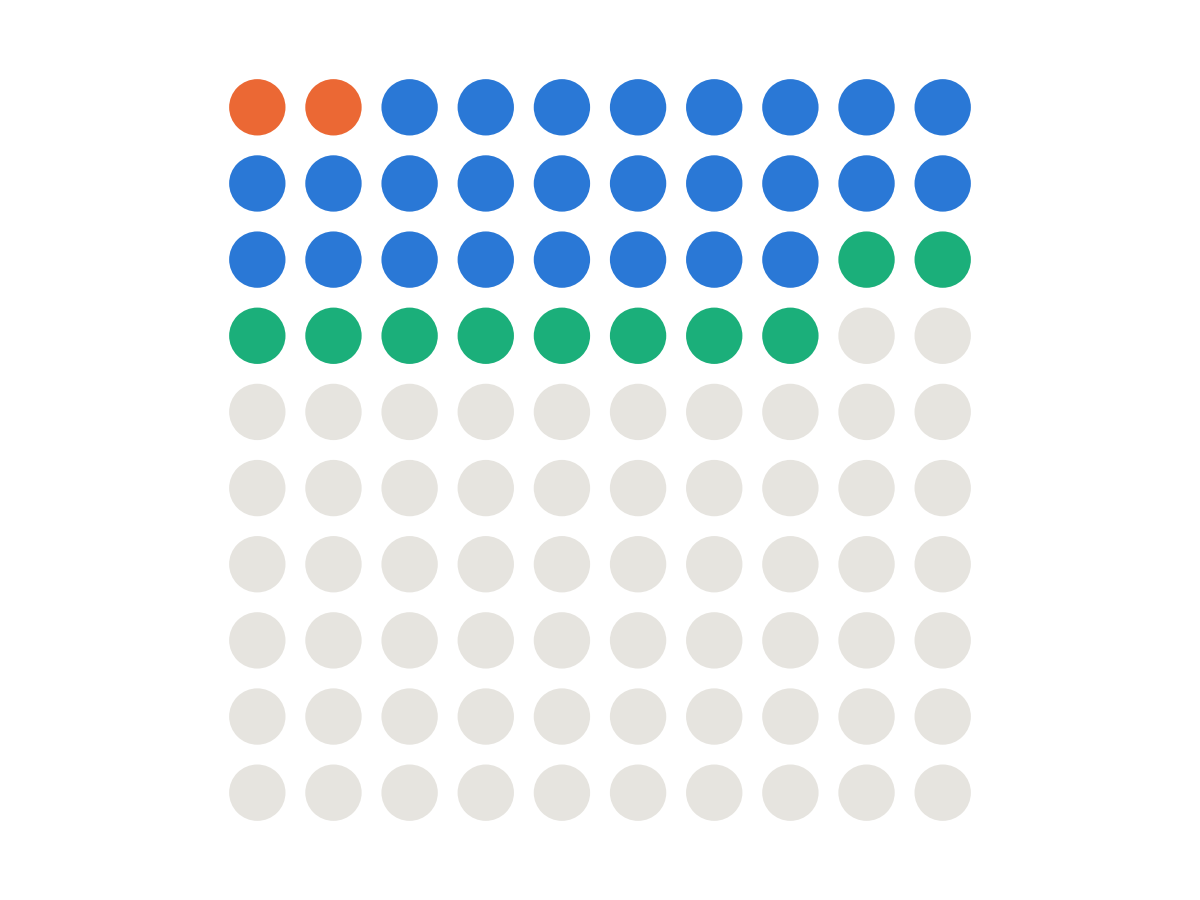
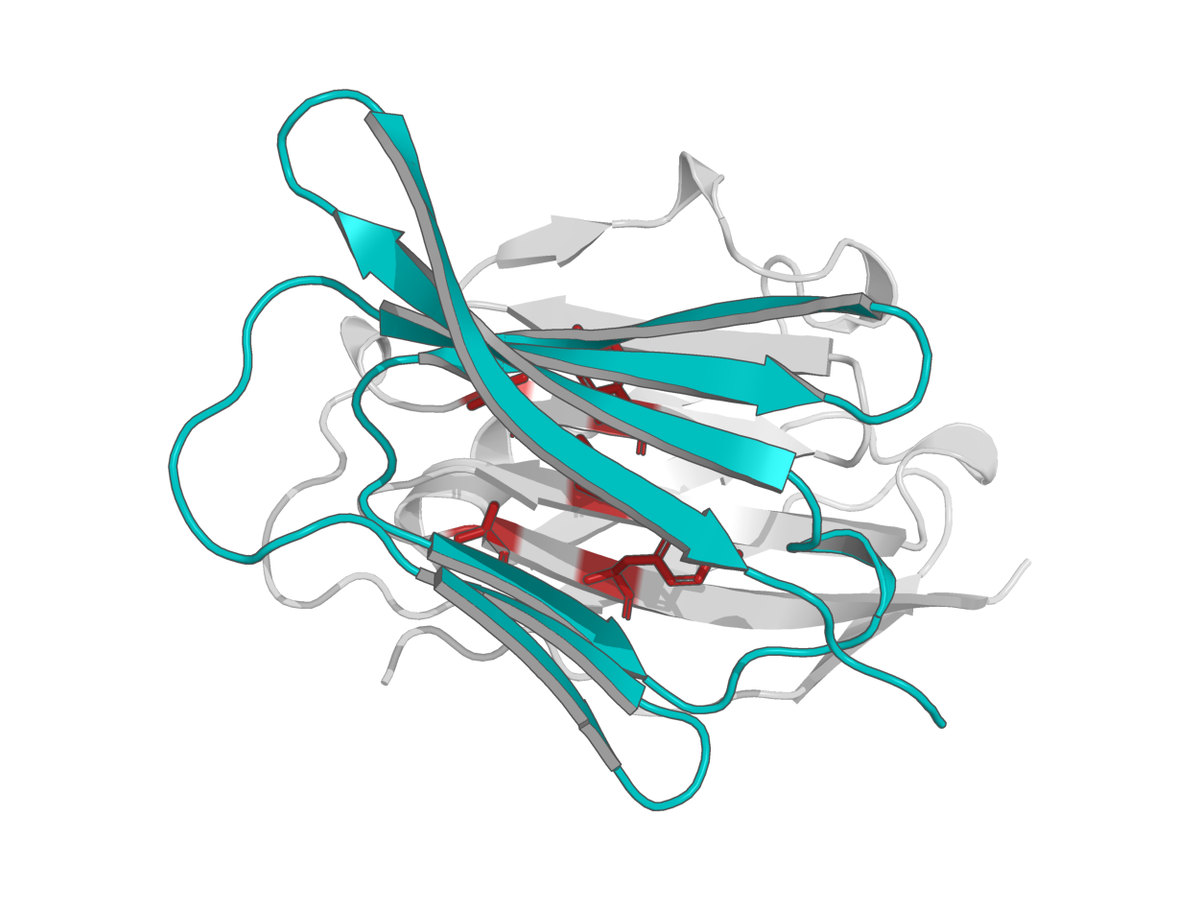
Update TrustBinder software thumbnail to structure render

diff --git a/index.html b/index.html
@@ -472,7 +472,7 @@
 
     <div class="pub">
       <div class="pub-figure">
-        <img src="papers/figures/sw_trustbinder.png" alt="100 de novo PD-L1 designs, shaded by which structure oracle endorses each one">
+        <img src="papers/figures/sw_trustbinder.png" alt="A both-oracle-endorsed de novo binder (teal) docked in the PD-L1 groove, engaging the five targeted hotspot residues (red)">
       </div>
       <div class="pub-content">
         <div class="pub-title">TrustBinder</div>
